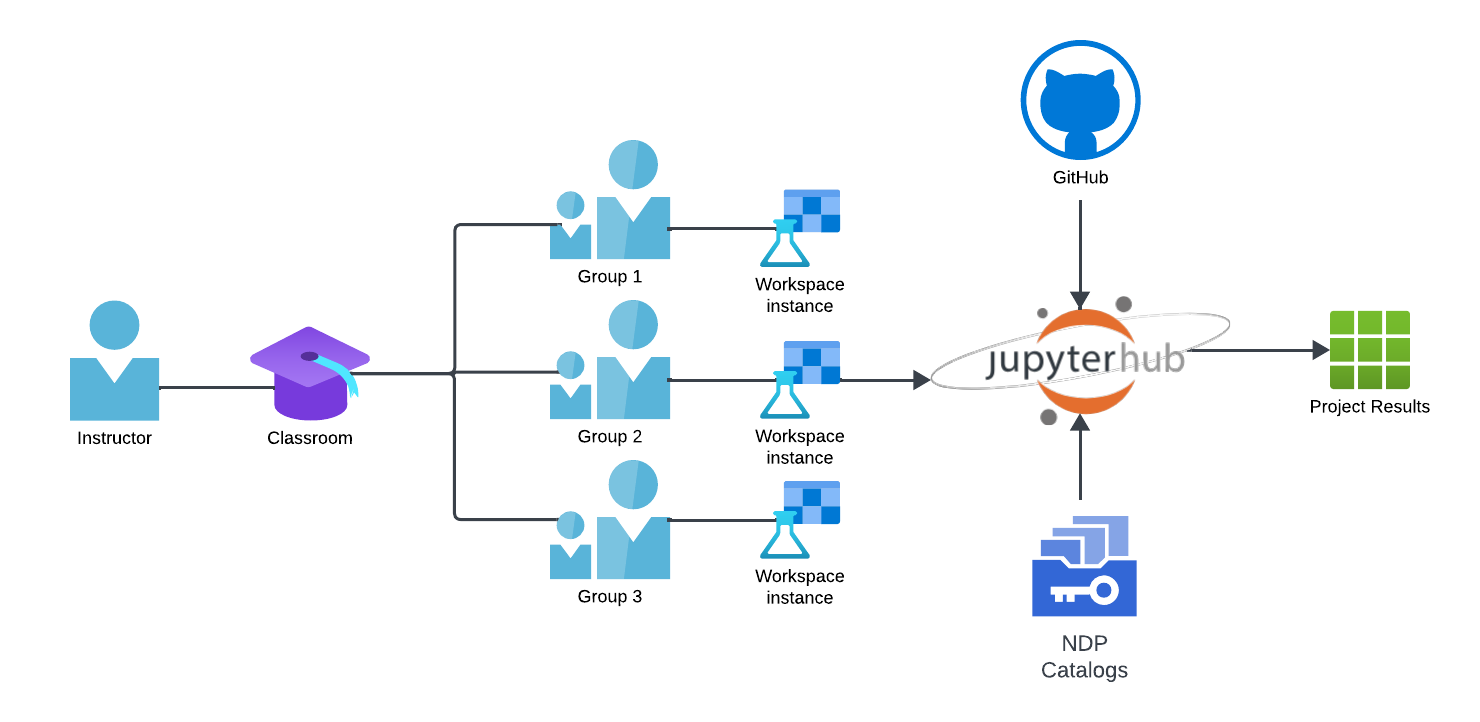
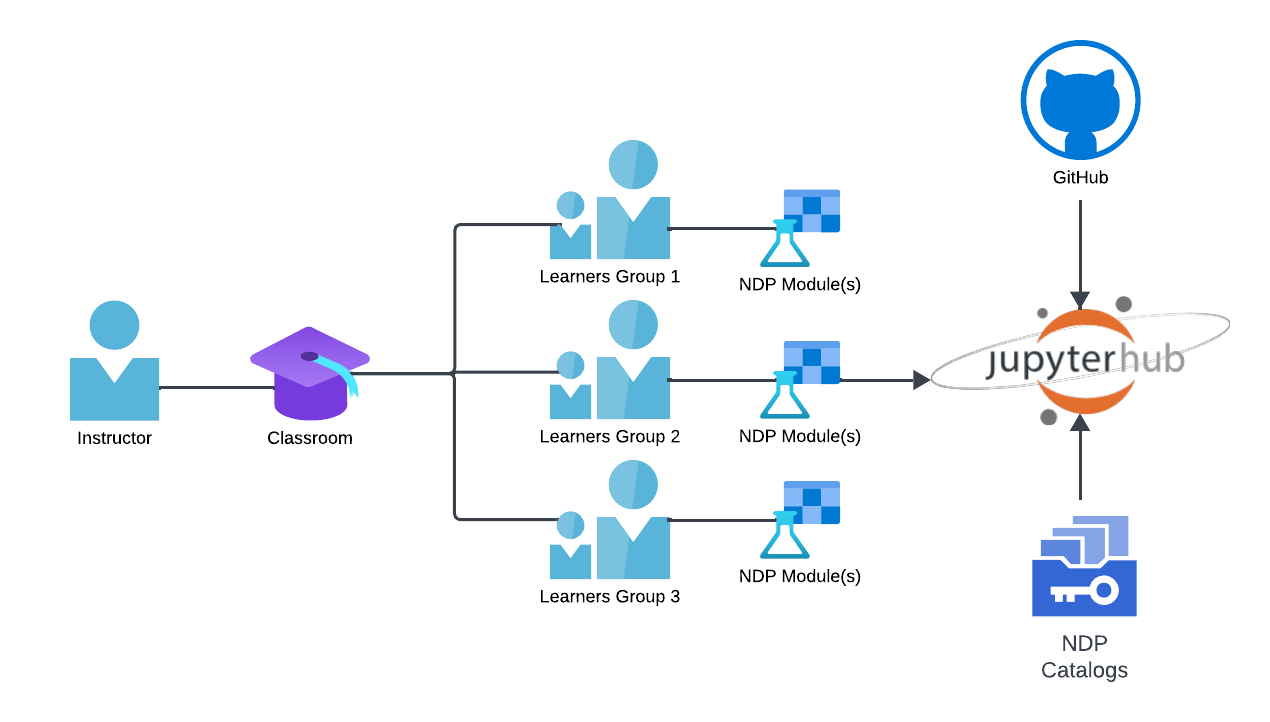
Updating EH docs

diff --git a/docs/ndp-classroom/index.md b/docs/ndp-classroom/index.md
@@ -1,11 +1,6 @@
 # NDP Classroom
 
-!!! info
-    The following page provides a conceptual overview of the NDP Classroom. The NDP Classroom is currently under development and it's Alpha version is expected to be launched in Fall 2024
-
 The National Data Platform aims to enhance AI learning experience through the NDP Classroom experience. NDP Classroom is designed to support courses that require advanced computational resources for AI-based projects. It provides access to high-performance computing capabilities and a scalable infrastructure, allowing educators and students to tackle complex AI tasks and handle large datasets.
-
-NDP Classroom is also tailored for hosting data challenges. Its robust infrastructure and comprehensive resources create an ideal environment for organizing and participating in data-centric competitions, effectively supporting innovation and practical problem-solving skills in AI.
 
 ## Features
 
@@ -13,26 +8,25 @@ NDP Classroom is also tailored for hosting data challenges. Its robust infrastru
 
 This chart is a high level representation of the NDP Classroom experience flow. 
 
-### **NDP Workspace**
+### **NDP Modules**
 
-The workspace represents the base unit of the NDP classroom. This versatile template allows educators to seamlessly integrate data, models, GitHub repositories, and other essential services. This feature allows for the streamlined setup and launch of projects directly in JupyterHub. 
+The NDP modules represent the base unit of the NDP classroom. Modules allows educators to seamlessly integrate data, models, GitHub repositories, and other essential services. This feature allows for the streamlined setup and launch of hands-on activities and assignments directly in JupyterHub. 
 
-Instructors can add resources to the workspace such as the following:
+Instructors can add resources to a module such as the following:
 
 - Datasets from [NDP Catalog](https://nationaldataplatform.org/ckandata)
-- AI / ML Models (HuggingFace, Model Commons)
+- Supporting links to external resources
 - GitHub repositories
+
+Information on how to create a NDP Module can be found in this [page](../ndp-modules/module-tutorial.md).
 
 ### **Groups**
 
-Groups are collaborative instances within a classroom where multiple students working on the same project or class can share a workspace instance. These groups enable students to include additional resources within JupyterHub, such as additional datasets, models or repositories. Each group is provided with shared persistent storage, allowing for collective work and seamless data management. Furthermore, groups can generate a results instance, facilitating the process of compiling and presenting their findings.
+Groups are collaborative instances within a classroom of multiple learners working on the same project or assignment. These groups enable students to include additional resources within JupyterHub, such as additional datasets, models or repositories. Each group is provided with shared persistent storage, allowing for collective work and seamless data management. 
 
 ### **JupyterHub Service**
 
-The JupyterHub service is the central hub where students perform the majority of their work as part of the classroom experience. It provides a robust environment for coding, testing, and executing AI projects. To enhance functionality, JupyterHub includes three additional extensions:
+The JupyterHub service is the central hub where students perform the majority of their work as part of the classroom experience. It provides a robust environment for coding, testing, and executing AI projects. To enhance functionality, JupyterHub includes an [NDP Widget](../jupyter/widget.md): This extension allows students to integrates the resources from their assigned modules to JupyterHub.
 
-- [NDP Widget](http://localhost:8000/documentation/jupyter/widget.md): This extension allows students to easily add additional NDP resources such as datasets and models.
-- [GitHub extension](http://localhost:8000/documentation/jupyter/github-extension.md): Facilitates the integration of external source code and GitHub repositories.
-- [Conda Extension](http://localhost:8000/documentation/jupyter/conda-extension.md): Enables students to manage dependencies and environments within their projects efficiently.
-
-
+!!! info
+    The creation and publication of Modules and Classrooms is limited to users with the *educator* role. Such role must be requested at `ndp@sdsc.edu`

diff --git a/docs/ndp-modules/understanding-modules.md b/docs/ndp-modules/understanding-modules.md
@@ -10,22 +10,14 @@ The primary purpose of NDP modules is to support formal education, with two key 
 
 Within a classroom environment, NDP Modules serve as core curriculum units that are integrated into the [NDP Classroom](). The modules are designed to align with course objectives and provide students with interactive hands-on activities and assessments. In addition, NDP modules can be used to facilitate the completion of assignments, particularly those that require the use of specialized datasets or access to high-performance computing resources.
 
-!!! info
-    The use of NDP classroom and private modules is limited to users with the *educator* role. Such role must be requested at `ndp@sdsc.edu`
-
-
 #### Open-Learning Resource
 When used as open-learning resources, NDP modules offer flexible, self-paced educational opportunities that can be accessed by learners outside the traditional classroom. These modules are often designed to be concise units of knowledge, focusing on specific topics or skills. However, they can also be part of a broader educational sequence. For example, an open module might be one element of a comprehensive series on streaming data, with a specific focus on visualization techniques for handling and interpreting such data.
-
-A good example of this use case is [Example of open learning module]().
 
 ## Support Resource in Educational Activities
 
 NDP Modules can play a crucial role in supporting activities like data challenges and hackathons by providing participants with resources and a starting point for the activity.
 
 An agency might organize a data challenge on the NDP aimed at developing a model to address a complex problem using their datasets. To support this challenge, an NDP module can be included, offering a replicable base solution. This module helps participants gain a clear understanding of the challenge's objectives, the structure of the required workflow, and provides a solid foundation upon which they can build more advanced solutions.
-
-A good example of this case is the [Base Solution]() of the [NDP Data Challenge]().
 
 ## Community Training
 
@@ -38,5 +30,3 @@ Modules can be used to demonstrate how to utilize a sample dataset provided by t
 Example 2: AI Model Training
 
 Modules can be created that guide learners through the process of using an AI model or service. For example, a Jupyter notebook within the module could demonstrate how to apply a specific AI model to a real-world dataset, guiding users through the practical application of the model, demonstrating how to effectively leverage its capabilities for meaningful analysis and decision-making.
-
-A good sample module of this use case is the [NASA Harmonized Landsat Sentinel-2 (HLS) Foundational Model Demo]().

diff --git a/docs/ndp-classroom/set-up.md b/docs/ndp-classroom/set-up.md
@@ -1,3 +1,21 @@
 # NDP Classroom Set-up
 
-Soon
+A classroom
+
+1. Before you can create a classroom, you must have [set up and published your modules](../ndp-modules/module-tutorial.md).
+2. Go to the *Educator Portal* within the NDP Education Hub. 
+3. Click on *New Classroom*. 
+4. Fill in the main module information:
+    - **Title of Class:** The title of your class. 
+    - **Class Code:** The unique class code used in your institution's program (for example, MSCS123).
+    - **Semester/Quarter:** The semester (1st, 2nd/Fall, Spring) or quarter (Fall, Winter, Spring, Summer) in which the class is taught.
+    - **Year:** The year in which the course is being taken.
+     - **Institution:** The name of your institution where the course is being taught. 
+5. Be sure to fill in all of the previous fields before clicking on *Set Up Classroom*.
+6. Add groups: Students are placed in a classroom as groups. This allows them to work together and share resources within JupyterHub. 
+For each group, assign a unique name and a list of student email addresses separated by commas (e.g. student1@ucsd.edu, student2@ucsd.edu, student3@ucsd.edu).
+Before adding students to groups, students must log in to NDP so that the system recognizes them as NDP users and allows them to join groups. 
+
+7. Add Modules: Click on *Add a module* to add modules with a due date to your classroom. Your modules must be published before you can select them from the drop down menu.
+8. Save your classroom. 
+9. Publish your classroom: Before publishing, you can still make changes to your classroom, such as changing the class information, groups, and modules. However, once you have published a classroom, **you cannot make any changes**.

diff --git a/docs/ndp-modules/index.md b/docs/ndp-modules/index.md
@@ -24,6 +24,5 @@ NDP modules provide educators with the computational resources needed for advanc
 
 NDP modules increase the visibility of researchers. Researchers can use NDP modules to share their expertise and resources, reaching a broad audience of students, educators, and fellow researchers. This increased exposure can lead to new collaborations, citations, and recognition in their respective academic fields.
 
-## Request a SME role
-
-Soon.
+!!! info
+    The creation and publication of Modules and Classrooms is limited to users with the *educator* role. Such role must be requested at `ndp@sdsc.edu`
